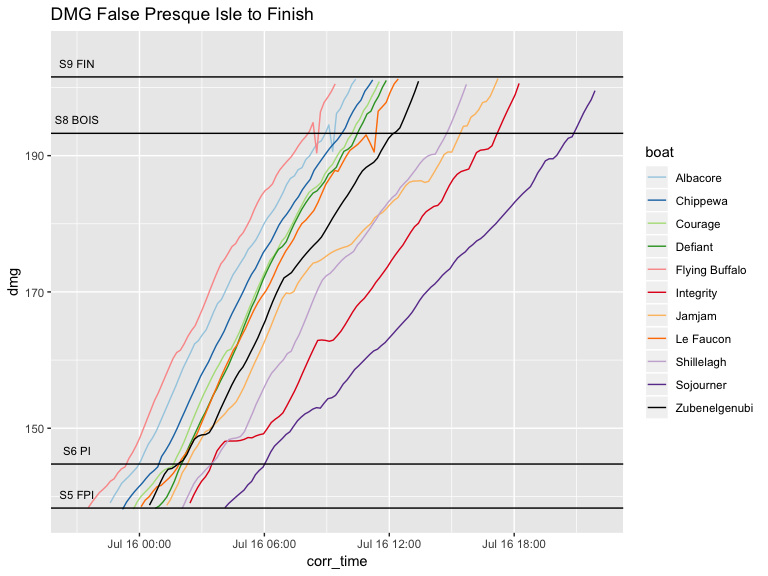
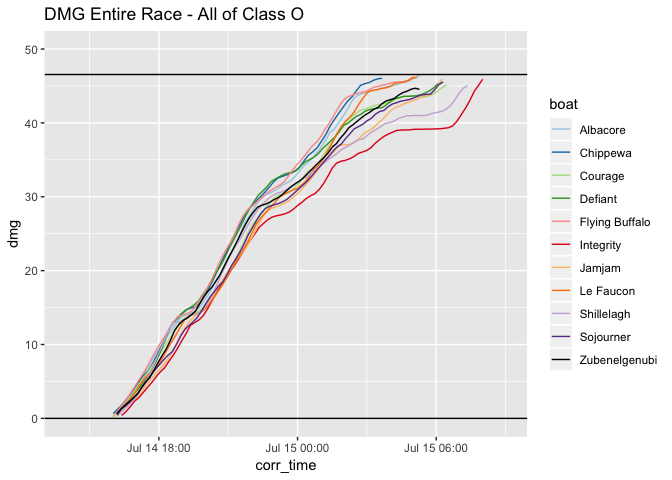
updated readme

diff --git a/README.md b/README.md
@@ -54,9 +54,15 @@ Distance Made Good is the Total Race Distance minus total distance to finish. Di
 
 On Corrected Time ![](README_files/figure-markdown_github/unnamed-chunk-4-1.png)
 
-We can see that coming into Presque Isle we actually were in 5th place corrected ahead of Courage, Defiant, and La Faucon.
+Performance to our polars over the race Because it is difficult to view, we'll split into different legs
 
 ![](README_files/figure-markdown_github/unnamed-chunk-5-1.png)
+
+![](README_files/figure-markdown_github/unnamed-chunk-6-1.png)
+
+We can see that coming into Presque Isle we actually were in 5th place corrected ahead of Courage, Defiant, and La Faucon.
+
+![](README_files/figure-markdown_github/unnamed-chunk-7-1.png)
 
 Against Albacore
 ----------------
